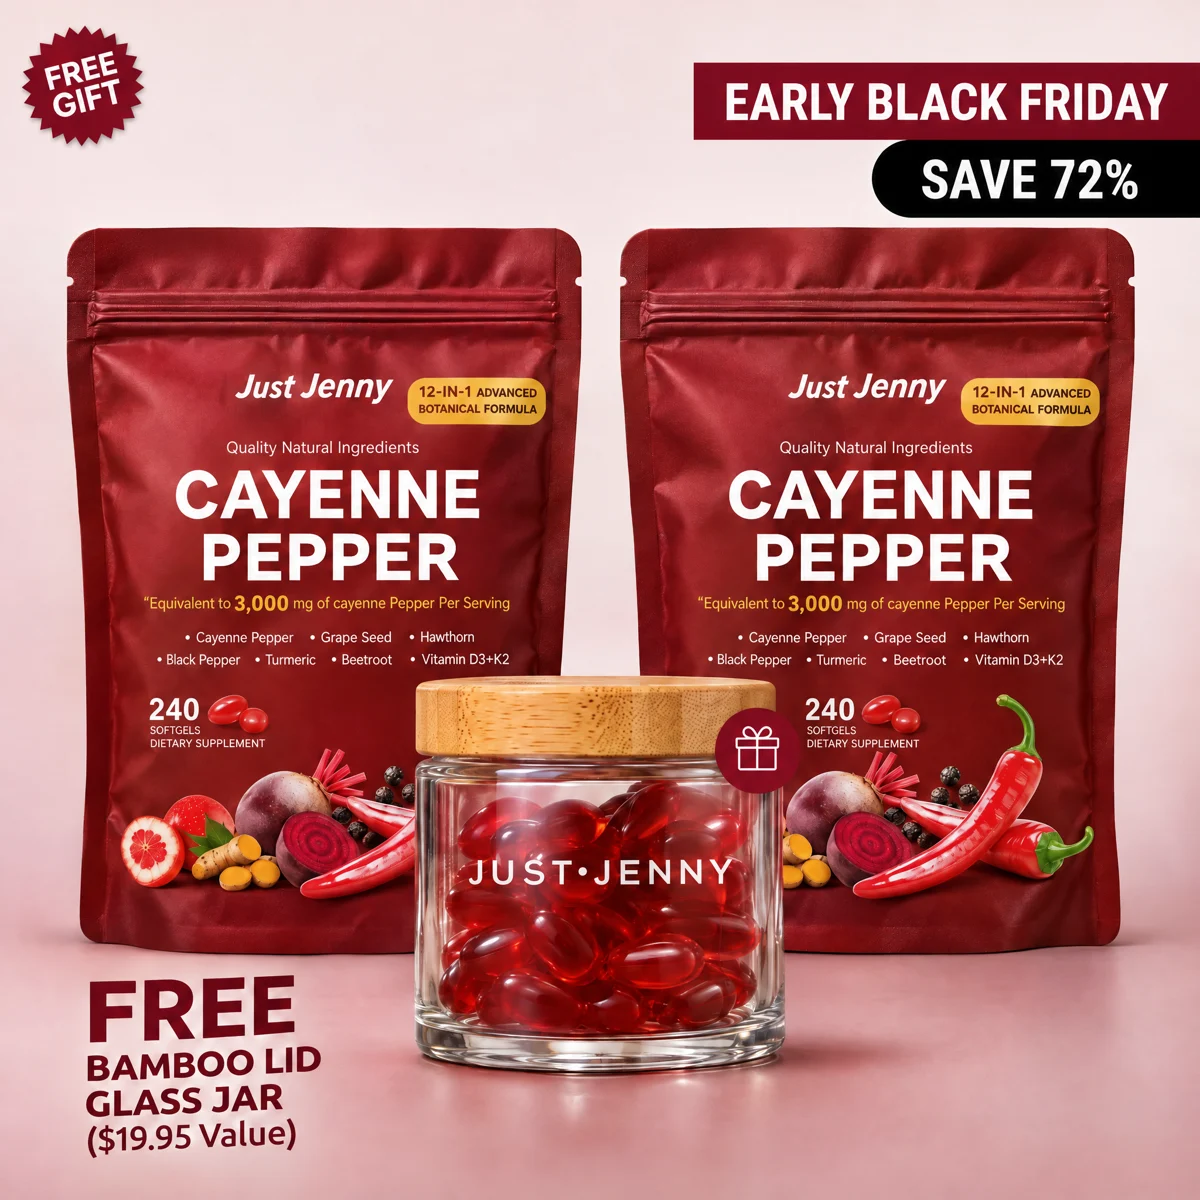
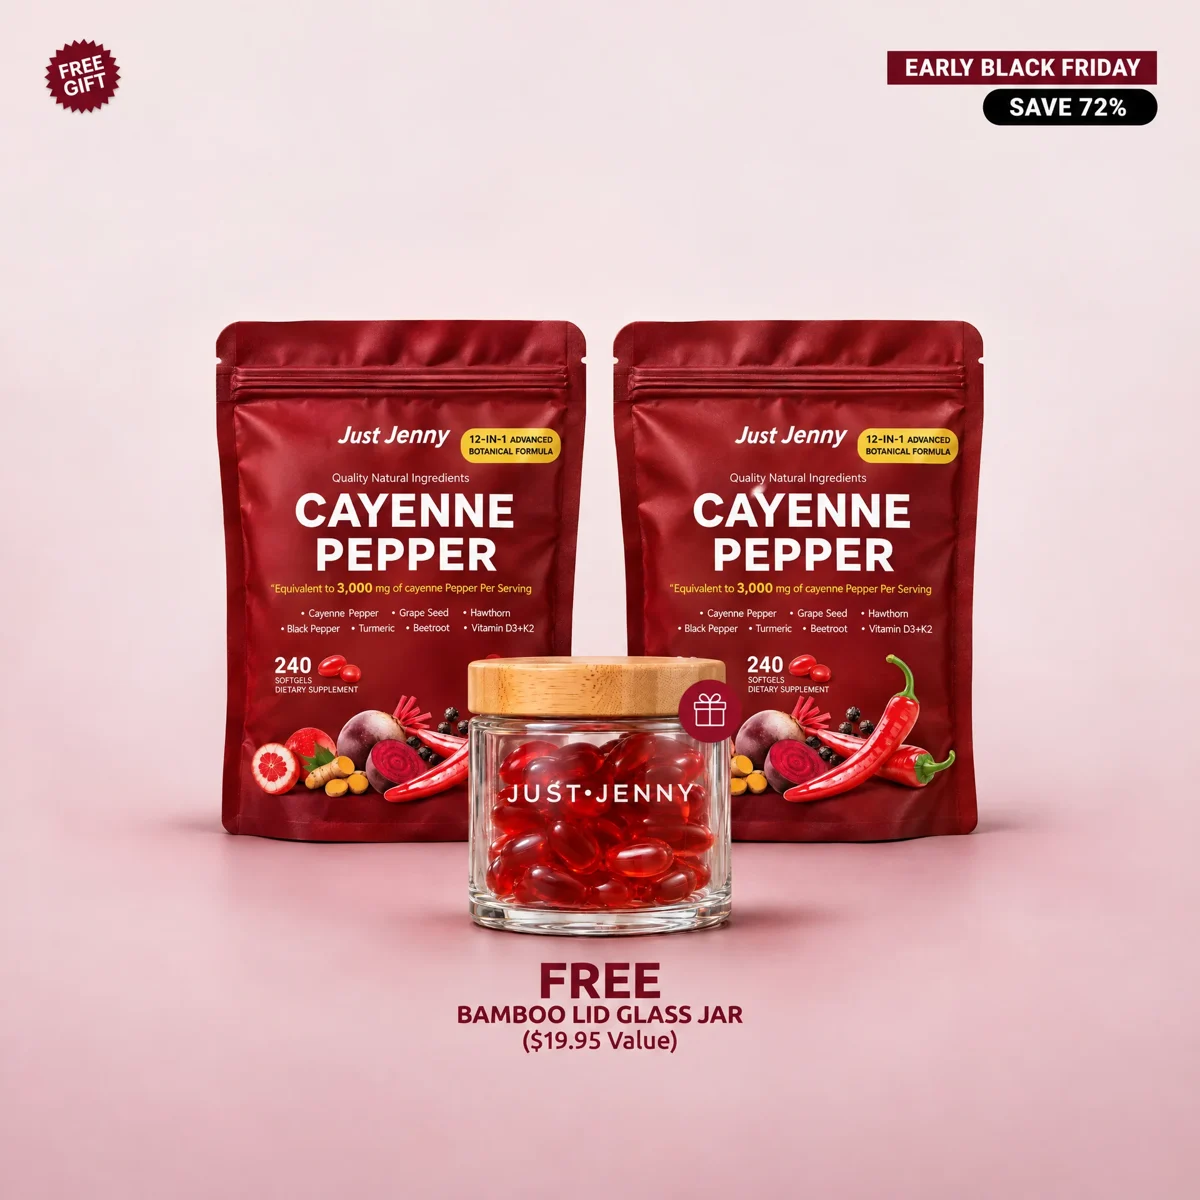
Cayenne: nieuwe grote foto bij het middelste offer
Claude-Session: https://claude.ai/code/session_015S3JaQdoW7XJTLZbosPqjp

diff --git a/cayenne/editor/index.html b/cayenne/editor/index.html
@@ -25,7 +25,7 @@
     <div class="thumbs"><div class="ed-pic th has-img" style="background-image:url(/cayenne/assets/hero-buy-one.webp)"><span class="slot-label">Photo 1</span></div><div class="ed-pic th"><span class="slot-label">Photo 2</span></div><div class="ed-pic th"><span class="slot-label">Photo 3</span></div><div class="ed-pic th"><span class="slot-label">Photo 4</span></div><div class="ed-pic th"><span class="slot-label">Photo 5</span></div></div>
   </div>
   <div class="g-nav"><button type="button" class="g-prev" aria-label="Previous photo"><svg class="" viewBox="0 0 24 24" aria-hidden="true"><path d="M19 12H5M11 6l-6 6 6 6" fill="none" stroke="currentColor" stroke-width="1.6" stroke-linecap="round" stroke-linejoin="round"/></svg></button><button type="button" class="g-next" aria-label="Next photo"><svg class="" viewBox="0 0 24 24" aria-hidden="true"><path d="M5 12h14M13 6l6 6-6 6" fill="none" stroke="currentColor" stroke-width="1.6" stroke-linecap="round" stroke-linejoin="round"/></svg></button></div>
-  <div class="bh"><p class="bh-t">Big photo per offer (shown when the visitor selects that offer)</p><div class="bh-row"><div class="bh-c"><div class="ed-pic bh-img has-img" data-qty="1" style="background-image:url(/cayenne/assets/hero-offer-1.webp)"><span class="slot-label"></span></div><span class="bh-l">Buy One</span></div><div class="bh-c"><div class="ed-pic bh-img has-img" data-qty="3" style="background-image:url(/cayenne/assets/hero-offer-2.webp)"><span class="slot-label"></span></div><span class="bh-l">Buy 2 Get 1 Free</span></div><div class="bh-c"><div class="ed-pic bh-img has-img" data-qty="5" style="background-image:url(/cayenne/assets/hero-offer-3.webp?v=2)"><span class="slot-label"></span></div><span class="bh-l">Buy 3 Get 2 Free</span></div></div></div>
+  <div class="bh"><p class="bh-t">Big photo per offer (shown when the visitor selects that offer)</p><div class="bh-row"><div class="bh-c"><div class="ed-pic bh-img has-img" data-qty="1" style="background-image:url(/cayenne/assets/hero-offer-1.webp)"><span class="slot-label"></span></div><span class="bh-l">Buy One</span></div><div class="bh-c"><div class="ed-pic bh-img has-img" data-qty="3" style="background-image:url(/cayenne/assets/hero-offer-2.webp?v=2)"><span class="slot-label"></span></div><span class="bh-l">Buy 2 Get 1 Free</span></div><div class="bh-c"><div class="ed-pic bh-img has-img" data-qty="5" style="background-image:url(/cayenne/assets/hero-offer-3.webp?v=2)"><span class="slot-label"></span></div><span class="bh-l">Buy 3 Get 2 Free</span></div></div></div>
   <div class="h-faq"><details class="acc"><summary><span class="q">What does this formula support?</span><span class="pm" aria-hidden="true"></span></summary><div class="a"><p>Blood flow to the feet, legs and fingers, plus steady energy and your body's inflammation response.</p></div></details><details class="acc"><summary><span class="q">How many do I take?</span><span class="pm" aria-hidden="true"></span></summary><div class="a"><p>Take 2 softgels daily with a glass of water.</p></div></details><details class="acc"><summary><span class="q">How long before I notice something?</span><span class="pm" aria-hidden="true"></span></summary><div class="a"><p>Warmth in the first few days. Feeling can return to numb extremities around weeks 2-4. Crashes ease by weeks 6-8.</p></div></details><details class="acc"><summary><span class="q">Do you offer a guarantee?</span><span class="pm" aria-hidden="true"></span></summary><div class="a"><p>Yes, a 90-day money-back guarantee. If you're not satisfied, email us within 90 days for a full refund.</p></div></details><details class="acc"><summary><span class="q">When can I expect delivery?</span><span class="pm" aria-hidden="true"></span></summary><div class="a"><p>Orders ship fast and are usually received within 4–5 business days, based on your location.</p></div></details></div>
 </div>
 <div class="h-right">

diff --git a/cayenne/index.html b/cayenne/index.html
@@ -23,7 +23,7 @@
     <div class="thumbs"><div class="ed-pic th has-img" style="background-image:url(/cayenne/assets/hero-buy-one.webp)"><span class="slot-label">Photo 1</span></div><div class="ed-pic th"><span class="slot-label">Photo 2</span></div><div class="ed-pic th"><span class="slot-label">Photo 3</span></div><div class="ed-pic th"><span class="slot-label">Photo 4</span></div><div class="ed-pic th"><span class="slot-label">Photo 5</span></div></div>
   </div>
   <div class="g-nav"><button type="button" class="g-prev" aria-label="Previous photo"><svg class="" viewBox="0 0 24 24" aria-hidden="true"><path d="M19 12H5M11 6l-6 6 6 6" fill="none" stroke="currentColor" stroke-width="1.6" stroke-linecap="round" stroke-linejoin="round"/></svg></button><button type="button" class="g-next" aria-label="Next photo"><svg class="" viewBox="0 0 24 24" aria-hidden="true"><path d="M5 12h14M13 6l6 6-6 6" fill="none" stroke="currentColor" stroke-width="1.6" stroke-linecap="round" stroke-linejoin="round"/></svg></button></div>
-  <div class="bh"><p class="bh-t">Big photo per offer (shown when the visitor selects that offer)</p><div class="bh-row"><div class="bh-c"><div class="ed-pic bh-img has-img" data-qty="1" style="background-image:url(/cayenne/assets/hero-offer-1.webp)"><span class="slot-label"></span></div><span class="bh-l">Buy One</span></div><div class="bh-c"><div class="ed-pic bh-img has-img" data-qty="3" style="background-image:url(/cayenne/assets/hero-offer-2.webp)"><span class="slot-label"></span></div><span class="bh-l">Buy 2 Get 1 Free</span></div><div class="bh-c"><div class="ed-pic bh-img has-img" data-qty="5" style="background-image:url(/cayenne/assets/hero-offer-3.webp?v=2)"><span class="slot-label"></span></div><span class="bh-l">Buy 3 Get 2 Free</span></div></div></div>
+  <div class="bh"><p class="bh-t">Big photo per offer (shown when the visitor selects that offer)</p><div class="bh-row"><div class="bh-c"><div class="ed-pic bh-img has-img" data-qty="1" style="background-image:url(/cayenne/assets/hero-offer-1.webp)"><span class="slot-label"></span></div><span class="bh-l">Buy One</span></div><div class="bh-c"><div class="ed-pic bh-img has-img" data-qty="3" style="background-image:url(/cayenne/assets/hero-offer-2.webp?v=2)"><span class="slot-label"></span></div><span class="bh-l">Buy 2 Get 1 Free</span></div><div class="bh-c"><div class="ed-pic bh-img has-img" data-qty="5" style="background-image:url(/cayenne/assets/hero-offer-3.webp?v=2)"><span class="slot-label"></span></div><span class="bh-l">Buy 3 Get 2 Free</span></div></div></div>
   <div class="h-faq"><details class="acc"><summary><span class="q">What does this formula support?</span><span class="pm" aria-hidden="true"></span></summary><div class="a"><p>Blood flow to the feet, legs and fingers, plus steady energy and your body's inflammation response.</p></div></details><details class="acc"><summary><span class="q">How many do I take?</span><span class="pm" aria-hidden="true"></span></summary><div class="a"><p>Take 2 softgels daily with a glass of water.</p></div></details><details class="acc"><summary><span class="q">How long before I notice something?</span><span class="pm" aria-hidden="true"></span></summary><div class="a"><p>Warmth in the first few days. Feeling can return to numb extremities around weeks 2-4. Crashes ease by weeks 6-8.</p></div></details><details class="acc"><summary><span class="q">Do you offer a guarantee?</span><span class="pm" aria-hidden="true"></span></summary><div class="a"><p>Yes, a 90-day money-back guarantee. If you're not satisfied, email us within 90 days for a full refund.</p></div></details><details class="acc"><summary><span class="q">When can I expect delivery?</span><span class="pm" aria-hidden="true"></span></summary><div class="a"><p>Orders ship fast and are usually received within 4–5 business days, based on your location.</p></div></details></div>
 </div>
 <div class="h-right">

diff --git a/cayenne/build.py b/cayenne/build.py
@@ -114,7 +114,7 @@ GIFTS = ('<div class="gifts"><span class="gf-h">Early Black Friday Gifts Unlocke
          + '</div></div>')
 CLOCK = svg('<circle cx="12" cy="12" r="10" fill="currentColor"/><path d="M12 6.500V12l3.500 2" fill="none" stroke="#fff" stroke-width="2" stroke-linecap="round"/>'.replace('.500', '.5'))
 TH_PHOTOS = {1: 'hero-buy-one.webp'}
-BH_PHOTOS = {1: 'hero-offer-1.webp', 3: 'hero-offer-2.webp', 5: 'hero-offer-3.webp?v=2'}
+BH_PHOTOS = {1: 'hero-offer-1.webp', 3: 'hero-offer-2.webp?v=2', 5: 'hero-offer-3.webp?v=2'}
 BH = '<div class="bh"><p class="bh-t">Big photo per offer (shown when the visitor selects that offer)</p><div class="bh-row">' + ''.join('<div class="bh-c">' + slot('ed-pic bh-img' + (' has-img' if q in BH_PHOTOS else ''), '', f' data-qty="{q}"' + (f' style="background-image:url(/cayenne/assets/{BH_PHOTOS[q]})"' if q in BH_PHOTOS else '')) + f'<span class="bh-l">{lbl}</span></div>' for q, lbl in ((1, 'Buy One'), (3, 'Buy 2 Get 1 Free'), (5, 'Buy 3 Get 2 Free'))) + '</div></div>'
 
 html = f'''<!DOCTYPE html>
